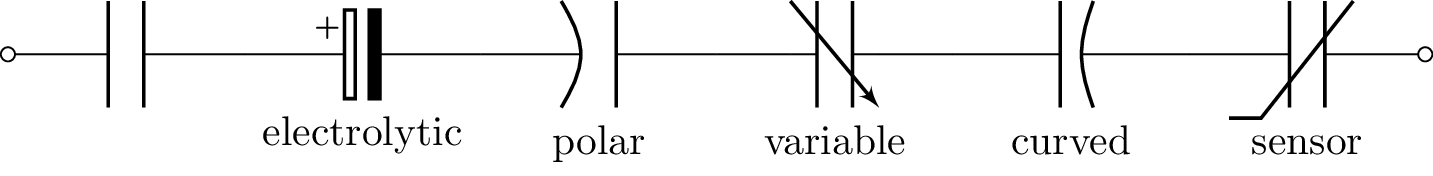
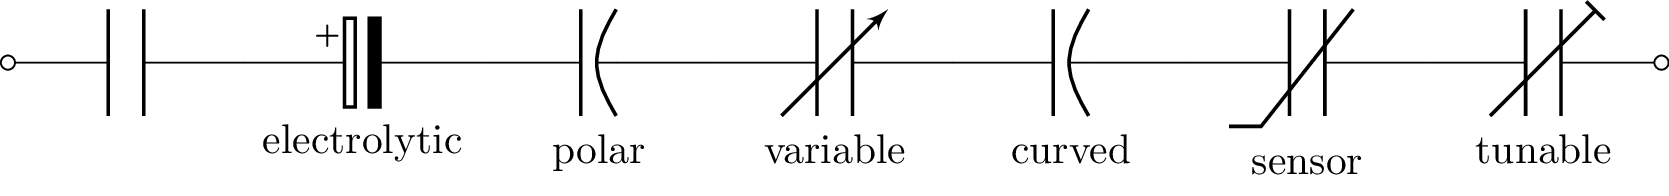
Add tunable examples

diff --git a/doc/schematics.rst b/doc/schematics.rst
@@ -379,7 +379,7 @@ Inductors and chokes
 .. literalinclude:: examples/schematics/inductors.sch
 
 .. image:: examples/schematics/inductors.png
-   :width: 9cm
+   :width: 10cm
 
 
 .. _chips:
@@ -613,6 +613,15 @@ Alternatively, a variable resistor can be defined using:
 
 .. image:: examples/schematics/RV2.png
    :width: 1.4cm
+
+
+Resistors
+----------
+
+.. literalinclude:: examples/schematics/resistors.sch
+
+.. image:: examples/schematics/resistors.png
+   :width: 7cm
 
 
 Switches
